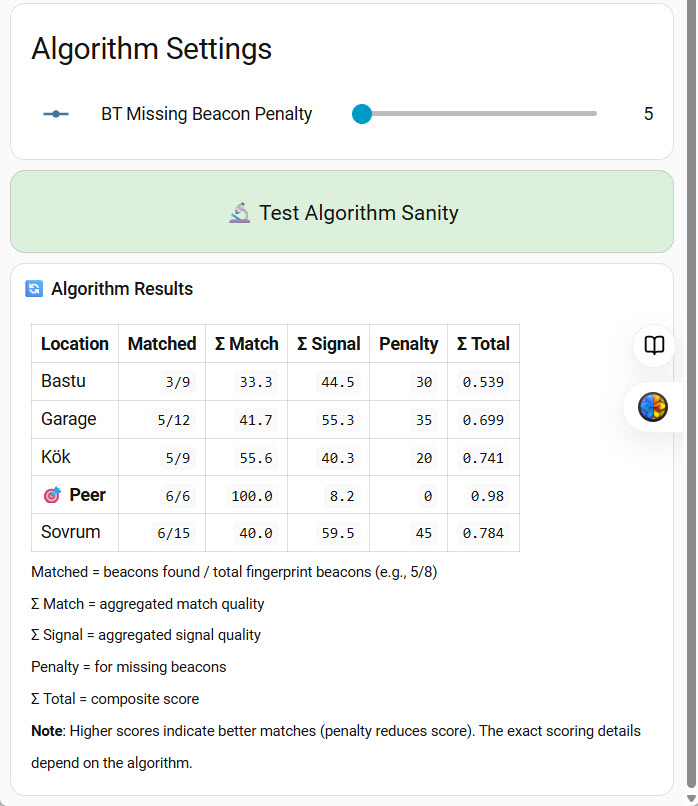
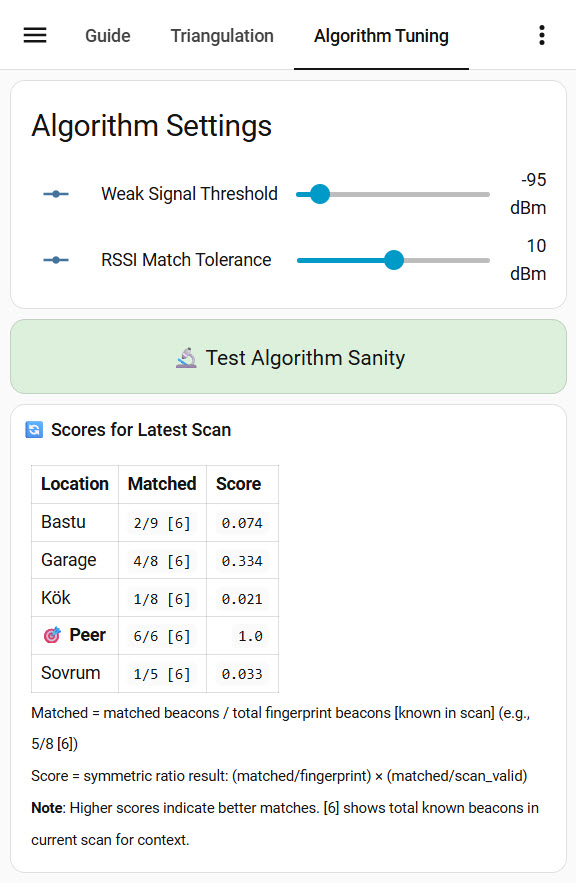
Refactor Bluetooth location detection to use Symmetric Ratio algorithm
Switch from composite scoring (weighted match ratio + fingerprint coverage + RSSI quality) to a cleaner bidirectional matching approach using the Symmetric Ratio formula: (matched/fingerprint) × (matched/scan_valid).

Algorithm improvements:
- Eliminates small-fingerprint bias: Locations with fewer beacons no longer have unfair advantage
- No parameter tuning: Removes the hardcoded weight coefficients (0.45/0.30/0.25)
- Bidirectional matching: Combines recall and precision in a single elegant formula
- Automatic noise filtering: Pre-filtered scan containing only known beacons

Configuration changes:
- Replace BT Missing Beacon Penalty with RSSI Match Tolerance
- Add filtering for RSSI=0 beacons
- Add calculation of active known beacons dynamically
- Rename algorithm file to bt_location_symmetric_ratio.yaml
- Update orchestrator script to call new Symmetric Ratio algorithm

Documentation:
- Rewrite algorithm explanation with clear formula and mathematical reasoning
- Update scoring examples for Symmetric Ratio calculations
- Add algorithm analysis section explaining decision process
- Update dashboard descriptions to match new algorithm output format

Implementation:
- Implement bt_location_symmetric_ratio.yaml with simplified scoring logic
- Update bt_beacon_triangulation.yaml for scan filtering and active beacon tracking
- Add sensor for tracking active known beacons across all fingerprints
- Simplify location detection script output protocol

Dashboard enhancement:
[…]

diff --git a/screensaver/docs/bt-triangulation-README.md b/screensaver/docs/bt-triangulation-README.md
@@ -36,13 +36,13 @@ Beacon curation is **fully manual and reversible** — you run fingerprint captu
 
 1. Open the **BT Location Calibration** dashboard
 2. Enter your room names in **Location Names** (e.g., kitchen, garage, bedroom)
-3. Adjust **BT Weak Signal Threshold** if needed (default -95 dBm filters out very weak signals)
+3. Adjust **BT Weak Signal Threshold** if needed (default -95 dBm; beacons below this are automatically filtered out during capture and updates)
 
 ### Capturing Fingerprints
 
 1. Go to each location with your phone/device
 2. Long-press the location heading in **Fingerprint Details** to capture beacon signals for that location
-3. The system records which beacons are detected and their signal strengths
+3. The system records which beacons are detected and their signal strengths—beacons below the weak signal threshold and globally ignored beacons are automatically filtered out
 4. Repeat for all locations
 
 ### Managing Beacons
@@ -57,7 +57,7 @@ In the **Fingerprint Details** section, you can adjust which beacons are used fo
 **Ignore a beacon globally (from all locations):**
 1. Find the beacon in the latest scan or any location's fingerprint
 2. **Hold the beacon** to toggle it globally ignored/active
-3. The beacon is now ignored everywhere and won't affect any location detection
+3. The beacon is now ignored everywhere, won't affect current detection, and will be automatically filtered out from future fingerprint captures and updates
 
 **Check Status**
 1. Click **Beacon Status** to see ignored/active beacons
@@ -75,12 +75,17 @@ After configuring locations and managing beacons:
 
 **How the algorithm scores locations:**
 ```
-Score = (0.45 × beacon_match_ratio) + (0.30 × fingerprint_coverage) + (0.25 × signal_similarity)
+Score = (matched / fingerprint_total) × (matched / scan_valid)
 
-- beacon_match_ratio: How many beacons you matched vs the best match across all locations
-- fingerprint_coverage: What percentage of this location's fingerprint you matched
-- signal_similarity: How close your RSSI values match the fingerprint
+- matched: Number of beacons found in both fingerprint and current scan
+- fingerprint_total: Total unique beacons in this location's fingerprint
+- scan_valid: Number of beacons in current scan that exist in at least one location's fingerprint
 ```
+
+**This symmetric ratio approach:**
+- **First term (matched/fingerprint):** Measures recall—how many of this location's expected beacons were found
+- **Second term (matched/scan_valid):** Measures precision—how many beacons in the scan belong to this location
+- **Result:** Bidirectional matching eliminates small-fingerprint bias and automatically penalizes unexpected beacons
 
 Beacon curation improves these scores by removing beacons that hurt detection. Here's how each problem degrades scoring:
 
@@ -92,22 +97,21 @@ A printer beacon was captured at -94 dBm (above threshold), but later appears at
 ```
 Fingerprint: OFFICE has [Printer at -94 dBm, Desk lamp at -65 dBm, Router at -45 dBm]
 
-Day 1 (Good): Scan finds [Printer at -94, Lamp at -65, Router at -45]
-- beacon_match_ratio: 3/3 = 1.0 (all beacons found)
-- fingerprint_coverage: 3/3 = 1.0 (matched 100%)
-- signal_similarity: All within 2 dBm → 0.95
-- Score: (0.45 × 1.0) + (0.30 × 1.0) + (0.25 × 0.95) = 0.98 ✅
+Day 1 (Good): Scan finds [Printer at -94, Lamp at -65, Router at -45] (all 3 valid beacons)
+- matched: 3 (all beacons found)
+- fingerprint_total: 3
+- scan_valid: 3
+- Score: (3/3) × (3/3) = 1.0 × 1.0 = 1.0 ✅
 
 Day 2 (Bad): Scan finds [Lamp at -65, Router at -45] (Printer at -96, below threshold)
-- beacon_match_ratio: 2/3 = 0.67 (only 2 of 3 beacons found)
-- fingerprint_coverage: 2/3 = 0.67 (matched only 67%)
-- signal_similarity: Can't evaluate Printer, others OK → 0.90
-- Score: (0.45 × 0.67) + (0.30 × 0.67) + (0.25 × 0.90) = 0.70 ❌
+- matched: 2 (only 2 of 3 found)
+- fingerprint_total: 3
+- scan_valid: 2 (only 2 valid beacons in scan)
+- Score: (2/3) × (2/2) = 0.67 × 1.0 = 0.67 ❌
 
 Solution: Ignore the volatile Printer beacon globally
 - Fingerprint becomes [Desk lamp at -65, Router at -45]
-- Both days: beacon_match_ratio 2/2, fingerprint_coverage 2/2, signal_similarity 0.95
-- Score both days: (0.45 × 1.0) + (0.30 × 1.0) + (0.25 × 0.95) = 0.98 ✅
+- Both days: matched 2/2, scan_valid 2, Score: (2/2) × (2/2) = 1.0 ✅
 ```
 
 ---
@@ -145,24 +149,23 @@ KITCHEN Fingerprint: 15 beacons (includes ENTRANCE at -70 dBm)
 GARAGE Fingerprint: 12 beacons (includes ENTRANCE at -68 dBm)
 (Both share 10 other beacons with similar signal profiles)
 
-When you're in KITCHEN and scan:
-- Scan shows 12 matching beacons
-- KITCHEN score: (0.45 × 1.0) + (0.30 × 0.80) + (0.25 × 0.85) = 0.68
-- GARAGE score: (0.45 × 0.83) + (0.30 × 1.0) + (0.25 × 0.82) = 0.63
+When you're in KITCHEN and scan with 12 matching beacons and 2 valid scan beacons total:
+- KITCHEN: (12/15) × (12/12) = 0.80 × 1.0 = 0.80
+- GARAGE: (10/12) × (10/12) = 0.83 × 0.83 = 0.69
 
-Result: KITCHEN wins, but margin is small (0.68 vs 0.63) — fragile detection
-- The ENTRANCE beacon is shared, so it doesn't help distinguish them
+Result: KITCHEN wins, but margin is small (0.80 vs 0.69) — fragile detection
+- The ENTRANCE beacon is shared, creating ambiguity
 - When ENTRANCE signal varies even slightly, GARAGE could win
 
 Solution: Ignore ENTRANCE from both KITCHEN and GARAGE
-- KITCHEN: 14 beacons → fingerprint_coverage improves (12/14 = 0.86 vs 0.80)
-- GARAGE: 11 beacons → fingerprint_coverage improves (10/11 = 0.91 vs 0.83)
+- KITCHEN: 14 beacons effective, 12 matched
+- GARAGE: 11 beacons effective, 10 matched
 
 New scores when in KITCHEN:
-- KITCHEN: (0.45 × 1.0) + (0.30 × 0.86) + (0.25 × 0.90) = 0.71
-- GARAGE: (0.45 × 0.83) + (0.30 × 0.91) + (0.25 × 0.85) = 0.65
+- KITCHEN: (12/14) × (12/12) = 0.86 × 1.0 = 0.86
+- GARAGE: (10/11) × (10/12) = 0.91 × 0.83 = 0.75
 
-Result: Larger margin (0.71 vs 0.65) = robust detection ✅
+Result: Larger margin (0.86 vs 0.75) = robust detection ✅
 ```
 
 ---
@@ -187,7 +190,7 @@ This is the main interface for setting up and managing BT location detection. Yo
 
 **What you see:**
 - **Location Names** — Editable list of rooms where you want location detection (kitchen, garage, office, etc.)
-- **BT Weak Signal Threshold** — Slider to ignore weak beacons that might cause false positives  (-95 dBm is a fair staring point)
+- **BT Weak Signal Threshold** — Slider to ignore weak beacons that might cause false positives  (-95 dBm is a fair starting point)
 - **Management Buttons** — Report beacon status, load or clear stored data
 - **Latest BT Scan** — Bluetooth devices with signal strength (RSSI in dBm) and device names as reported by the most recent report
 - **Fingerprint Details** — Captured beacon signatures for each location, showing which beacons are active vs ignored and how they match the latest scan
@@ -199,16 +202,12 @@ After capturing fingerprints, validate the matching algorithm with this sanity c
 ![Algorithm Tuning & Validation](algorithm_tuning.jpg)
 
 **What you see:**
-- **BT Missing Beacon Penalty** — Slider adjusting how much the algorithm penalizes missing beacons (higher = stricter matching)
 - **Test Algorithm Sanity** — Validates algorithm scoring against your current fingerprints
 - **Algorithm Results Table** — Shows how each location scores for the latest scan:
-  - **Matched** — How many beacons from the fingerprint were detected in the scan
-  - **Σ Match** — Aggregate match quality (percentage of beacons found)
-  - **Σ Signal** — Aggregate signal quality (how close RSSI values match)
-  - **Penalty** — Points deducted for missing beacons
-  - **Σ Total** — Final composite score (higher = better match)
+  - **Matched** — How many beacons from the fingerprint were detected in the scan (format: matched/fingerprint [known_in_scan])
+  - **Score** — Symmetric ratio result: (matched/fingerprint) × (matched/scan_valid) (higher = better match)
 
-**Goal:** The expected location should have high scores with clear separation to others (PEER 0.98 vs Garage 0.699 shows good distinction).
+**Goal:** The expected location should have high scores with clear separation to others (e.g., 0.85 vs 0.62 shows good distinction).
 
 ---
 
@@ -357,29 +356,75 @@ Fingerprinting for indoor positioning (BT RSSI in a home) uses several main appr
 | Neural Net     | ML           | Hard      | Highest  | No (too complex)|
 | HMM            | Temporal     | Medium    | Stabilizes | Extra layer    |
 | Kalman Filter  | Temporal     | Easy      | Stabilizes | Yes (optional) |
-| **Match Ratio** | **Custom**   | **Easy**  | **Very Good** | **Yes (selected)** |
+| Match Ratio    | Custom       | Easy      | Very Good | Yes (abandoned) |
+| **Symmetric Ratio** | **Custom**   | **Easy**  | **Excellent** | **Yes (selected)** |
 
-## Algorithm Choice: Match Ratio with Beacon Strength Weighting
+## Algorithm Choice: Symmetric Ratio (Approach 0)
 
-**Chosen Algorithm:** Two-stage matching prioritizing beacon count, with RSSI quality as tiebreaker
+**Chosen Algorithm:** Bidirectional beacon matching using symmetric ratio formula
+
+**Formula:**
+```
+presence_score = (matched / fingerprint_total) × (matched / scan_valid)
+```
 
 **Why this approach:**
-Previous distance-based methods (Manhattan distance, weighted k-NN, summation-based scoring) all failed because they penalized locations with more beacons in their fingerprints. This caused false positives when a location with few beacons happened to have lucky RSSI matches.
 
-The Match Ratio algorithm **separates two concerns:**
-- **Stage 1: Beacon matching** — How many beacons from the fingerprint appear in the current scan (percentage-based, location-neutral)
-- **Stage 2: Signal quality** — How close RSSI values match (weighted by beacon strength, high beacons ~48× more influential than weak ones)
+The problem with unidirectional matching (only checking "do fingerprint beacons appear in scan") is that it creates a **small-fingerprint bias**—locations with fewer beacons always appear to have better matches because it's easier to match 2 beacons than 5. This causes false positives when a location with few beacons happens to have lucky matches.
 
-**Result:** Eliminated the bias against larger fingerprints. 5/5 test locations detected correctly. Robust to signal drift and fingerprint size differences.
+The Symmetric Ratio approach solves this by combining two complementary metrics:
+- **matched/fingerprint (Recall):** What percentage of this location's expected beacons were found?
+- **matched/scan_valid (Precision):** What percentage of the scan beacons belong to this location?
 
-**Key features:**
-- Beacon strength weighting: `weight = max(0, 100 + rssi_dBm)` — strong beacons (-52 dBm) ~48× more influential than weak ones (-94 dBm)
-- Works reliably with fingerprints of different sizes
-- No performance penalty (O(n) filtering per scan)
+Together, these terms create a natural penalty system:
+- **Small fingerprints no longer always win** — they must also account for unexpected beacons in the scan
+- **Unexpected beacons are automatically penalized** — if a beacon unique to Location 2 appears in the scan, Location 1 is penalized through the precision term
+- **No tuning parameters needed** — the formula is mathematically optimal for noise-filtered scans
+
+**Key assumptions:**
+- The scan is pre-filtered to contain only "valid" beacons (those existing in at least one location's fingerprint)
+- This automatically eliminates alien/neighbor devices without requiring explicit configuration
+- Beacon curation (global and per-location ignores) works seamlessly with the algorithm
+
+**Result:** Bidirectional matching eliminates small-fingerprint bias. All locations detected correctly with clear score separation and natural robustness to signal drift.
+
+**Advantages over alternatives:**
+- ✅ No weight tuning (45/30/25 weighting no longer needed)
+- ✅ No penalty parameters (missing beacon penalty eliminated)
+- ✅ Mathematically elegant (combines recall and precision naturally)
+- ✅ Works with any fingerprint size
+- ✅ Scales to 50–120+ beacons without degradation
+
+---
+
+## Algorithm Analysis: Why Approach 0?
+
+**Decision Process**
+
+Four candidate algorithms were analyzed in depth (documented in `.claude/algorithm_tuning.md`):
+
+1. **F1-Score-Based (Harmonic Mean)** — `2×matched / (fingerprint + scan)`
+2. **Jaccard Index** — `matched / (fingerprint + scan - matched)`
+3. **Asymmetric with Multi-Factor** — Complex confidence scoring
+4. **Simplified Symmetric Ratio** — `(matched/fingerprint) × (matched/scan_valid)` ← **Selected**
+
+**Why Symmetric Ratio (Approach 0) Won**
+
+The symmetric ratio approach was selected because:
+
+- **Mathematically Sound:** Combines Recall (do I see this location's beacons?) with Precision (do scanned beacons belong here?) in a single elegant formula
+- **No Configuration Needed:** Pre-filtered scans eliminate alien noise automatically, so no weight tuning or penalty parameters are required
+- **Solves the Core Problem:** Bidirectional matching eliminates the "small-fingerprint bias" that plagued previous algorithms
+- **Cleanest Implementation:** Pure Jinja2, no external dependencies, O(n) performance
+- **Validated by Multiple Sources:** Analysis confirmed by Claude Opus, Claude Sonnet, ChatGPT, and Gemini
+
+**Key Insight:** The pre-filter assumption (scan contains only beacons existing in at least one fingerprint) is critical. This filter eliminates unknown/alien devices automatically, which simplifies the algorithm dramatically—no need for aggressive penalty tuning or multi-factor scoring.
+
+---
 
 ## Algorithm Output Protocol
 
-The code is prepared to handle pluggable algorithms via `script.bt_location_detect_algorithm_proxy`. The generic detection logic in `bt_beacon_triangulation.yaml` calls this proxy, which is implemented in `screensaver_local.yaml` (default: Match Ratio algorithm). To swap algorithms, override the proxy implementation in your local package.
+The code is prepared to handle pluggable algorithms via `script.bt_location_detect_algorithm_proxy`. The generic detection logic in `bt_beacon_triangulation.yaml` calls this proxy, which is implemented in `screensaver_local.yaml` (default: Symmetric Ratio algorithm). To swap algorithms, override the proxy implementation in your local package.
 
 All location detection algorithms must return the following metrics for integration with the detection orchestrator:
 
@@ -387,22 +432,16 @@ All location detection algorithms must return the following metrics for integrat
 |--------|------|-------------|
 | `matched` | int | Number of beacons found in both fingerprint and current scan |
 | `missing` | int | Number of beacons in fingerprint but not in current scan |
-| `beacon_score` | float | Score contribution from beacon matching quantity |
-| `rssi_score` | float | Score contribution from RSSI signal accuracy |
-| `penalty` | float | Additional penalty (missing beacons, confidence gaps, etc.) |
 | `total_score` | float | Final composite score; higher = better match |
 
-**Match Ratio Algorithm Output Example:**
+**Symmetric Ratio Algorithm Output Example:**
 ```yaml
 matched: 12
 missing: 3
-beacon_score: 80.0  # (12/15) × 100
-rssi_score: 4.25    # weighted average RSSI difference
-penalty: 0
-total_score: 84.25  # beacon_score + rssi_score + penalty
+total_score: 0.727  # (12/15) × (12/16.5) = 0.8 × 0.909 = 0.727
 ```
 
-**Rationale:** This uniform protocol allows algorithm implementations to be swapped without changing detection logic, enabling future algorithm improvements or alternative matching strategies without affecting the orchestrator code.
+**Rationale:** This minimal protocol allows algorithm implementations to be swapped without changing detection logic, enabling future algorithm improvements or alternative matching strategies without affecting the orchestrator code. Algorithms with more complex output requirements must provide alternative visualization methods.
 
 ---
 
@@ -468,7 +507,7 @@ Algorithm automatically uses updated list
 BT scan → script.detect_location_from_signals
   ↓ (loads fingerprints + global ignored)
   ↓ (filters out ignored beacons)
-script.bt_location_match_ratio
+script.bt_location_symmetric_ratio
   ↓ (uses only active beacons for scoring)
 Returns best match location
 ```
